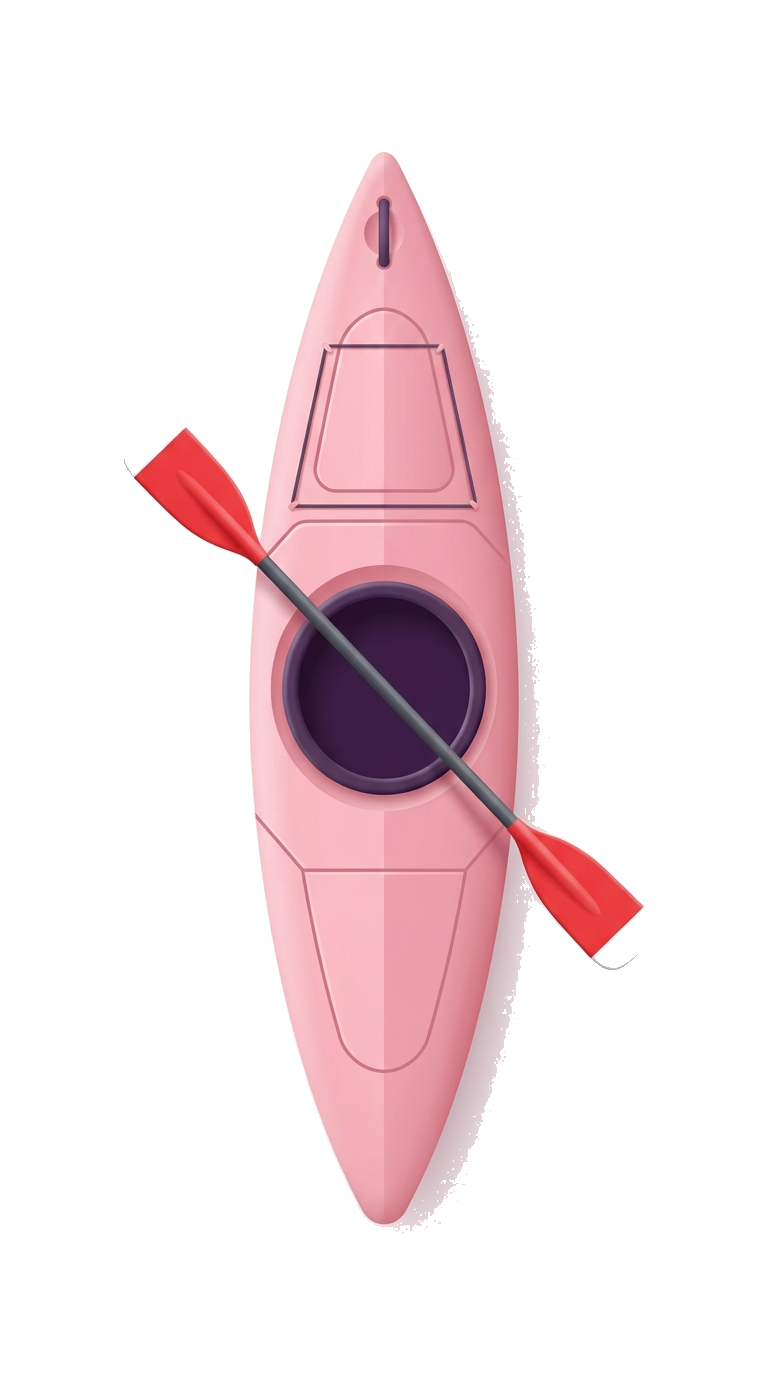
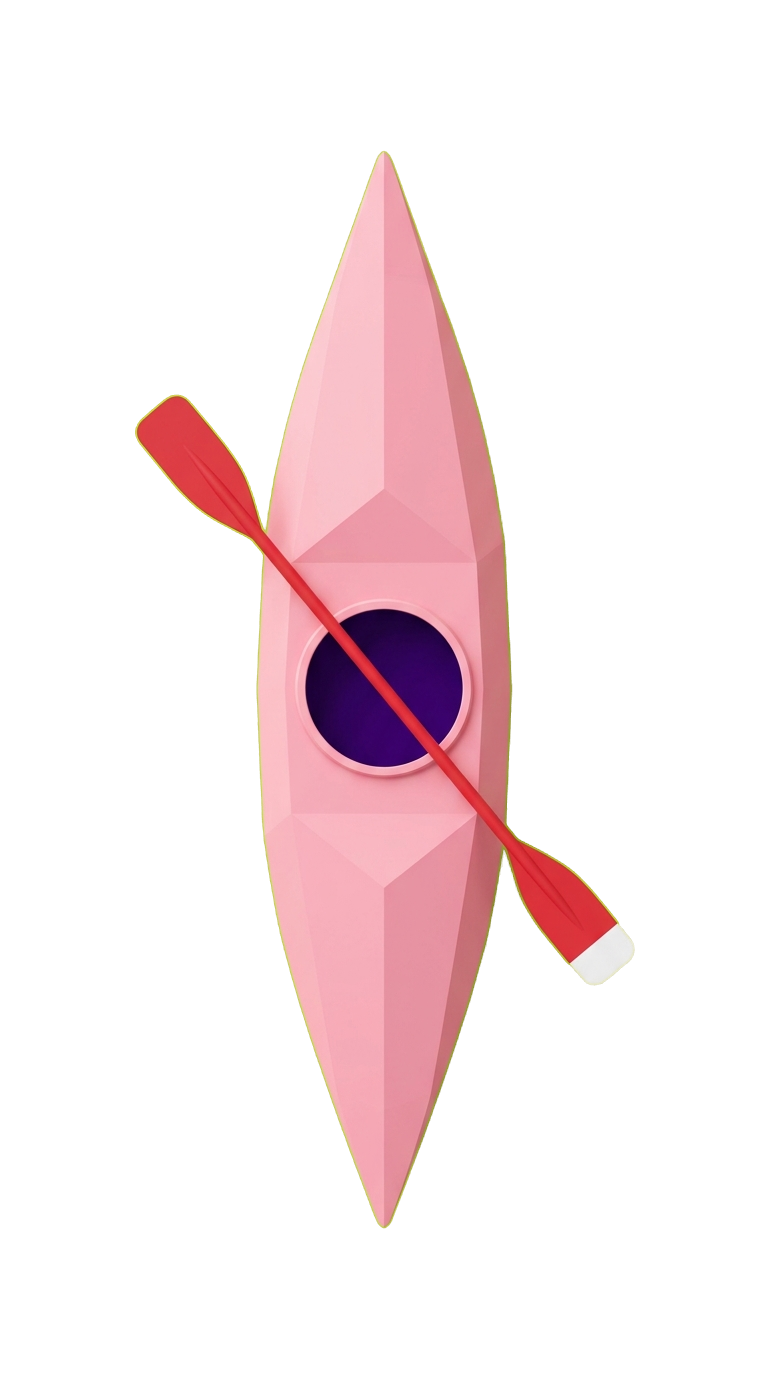
fixes

Changed region(s): [[0.1562, 0.0938, 0.8438, 0.9062]]

diff --git a/lib/widgets/boat_card_widget.dart b/lib/widgets/boat_card_widget.dart
@@ -15,8 +15,14 @@ class BoatCardWidget extends StatelessWidget {
 
   @override
   Widget build(BuildContext context) {
+    // red_kayak and yellow_kayak are already rendered at ~ -45 deg diagonal angle
+    // vertical assets (pelican_athena, sundolphin) are rotated on the home card
+    final bool isAlreadyAngled =
+        boat.id == 'lifetime-youth' || boat.id == 'sunny-island';
+    final double cardRotation = isAlreadyAngled ? 0.0 : -0.72;
+
     return Container(
-      margin: const EdgeInsets.only(bottom: 24),
+      margin: const EdgeInsets.only(bottom: 28),
       child: GestureDetector(
         onTap: onTap ??
             () {
@@ -44,31 +50,31 @@ class BoatCardWidget extends StatelessWidget {
               );
             },
         child: SizedBox(
-          height: 160,
+          height: 165,
           child: Stack(
             clipBehavior: Clip.none,
             children: [
-              // Colored Card Background Container
+              // 1. Colored Card Background Container
               Positioned(
                 left: 0,
                 right: 0,
                 bottom: 0,
-                top: 16,
+                top: 14,
                 child: Container(
                   decoration: BoxDecoration(
                     color: boat.cardColor,
                     borderRadius: BorderRadius.circular(24),
                     boxShadow: [
                       BoxShadow(
-                        color: boat.cardColor.withValues(alpha: 0.35),
-                        blurRadius: 18,
-                        offset: const Offset(0, 8),
+                        color: boat.cardColor.withValues(alpha: 0.38),
+                        blurRadius: 20,
+                        offset: const Offset(0, 10),
                       ),
                     ],
                   ),
                   padding: const EdgeInsets.only(
                     left: 22,
-                    bottom: 22,
+                    bottom: 24,
                     top: 22,
                     right: 140,
                   ),
@@ -101,19 +107,19 @@ class BoatCardWidget extends StatelessWidget {
                 ),
               ),
 
-              // Overlapping Floating 3D Kayak Asset with smooth rotation & Hero flight
+              // 2. Overlapping Floating 3D Kayak breaking cleanly through boundaries
               Positioned(
-                right: -10,
-                top: -8,
-                bottom: 6,
-                width: 195,
+                right: -18,
+                top: -28,
+                bottom: -20,
+                width: 220,
                 child: Hero(
                   tag: 'boat-image-${boat.id}',
                   flightShuttleBuilder: (flightContext, animation,
                       flightDirection, fromHeroContext, toHeroContext) {
                     final rotationTween = Tween<double>(
-                      begin: -0.15,
-                      end: 0.0,
+                      begin: cardRotation,
+                      end: isAlreadyAngled ? 0.72 : 0.0,
                     );
                     return AnimatedBuilder(
                       animation: animation,
@@ -126,10 +132,13 @@ class BoatCardWidget extends StatelessWidget {
                     );
                   },
                   child: Transform.rotate(
-                    angle: -0.15,
-                    child: Image.asset(
-                      boat.imageAsset,
-                      fit: BoxFit.contain,
+                    angle: cardRotation,
+                    child: Transform.scale(
+                      scale: isAlreadyAngled ? 1.0 : 1.25,
+                      child: Image.asset(
+                        boat.imageAsset,
+                        fit: BoxFit.contain,
+                      ),
                     ),
                   ),
                 ),
